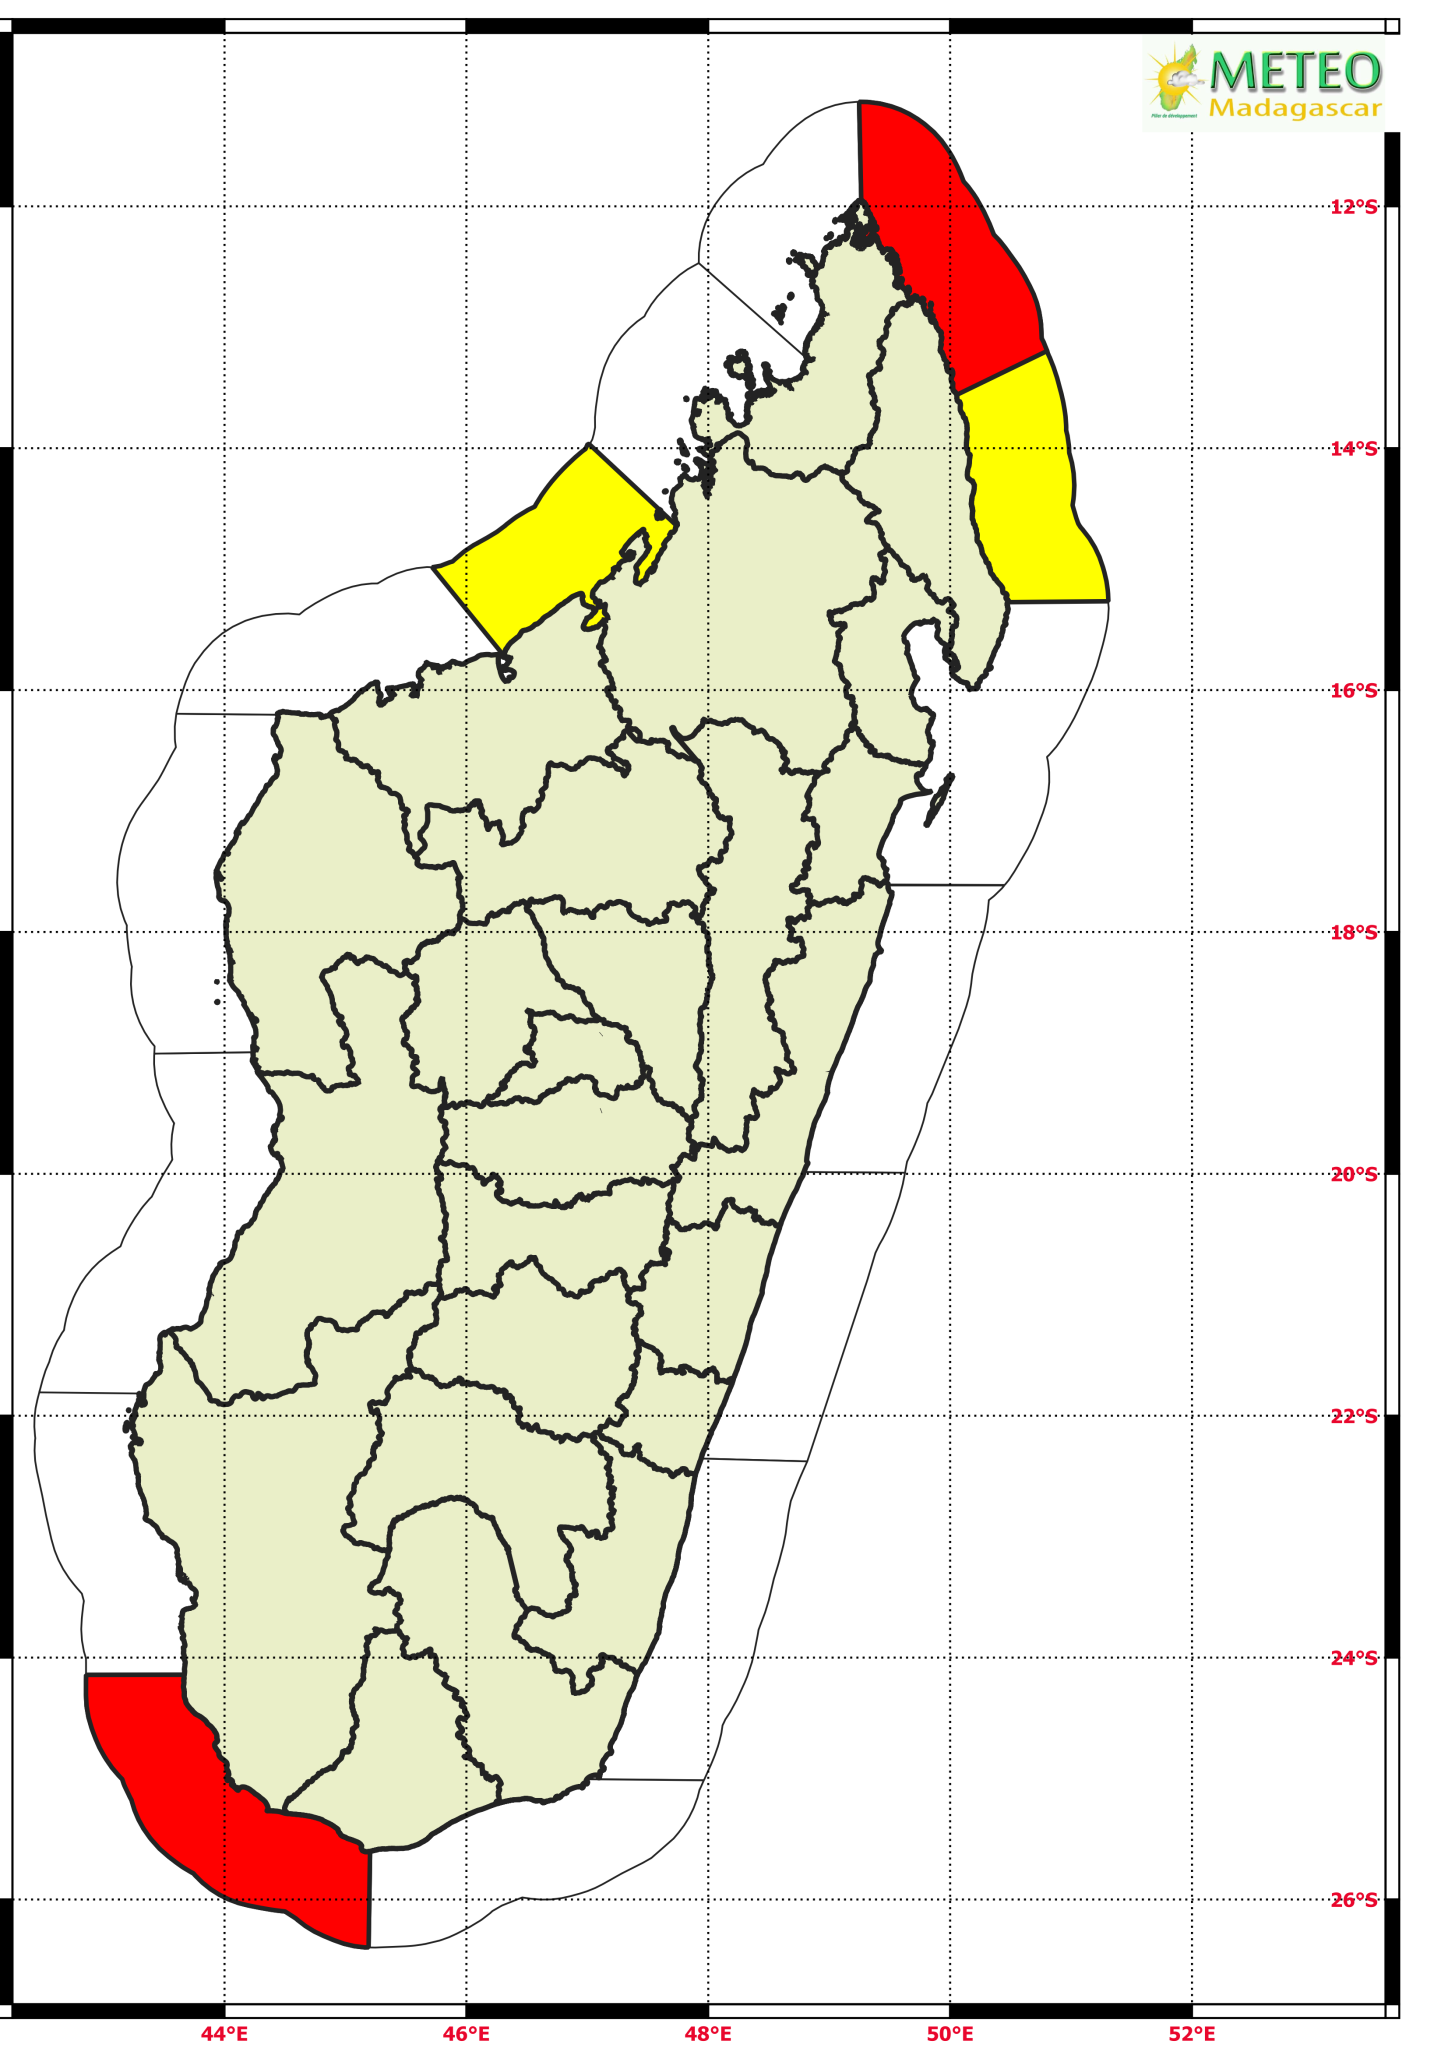
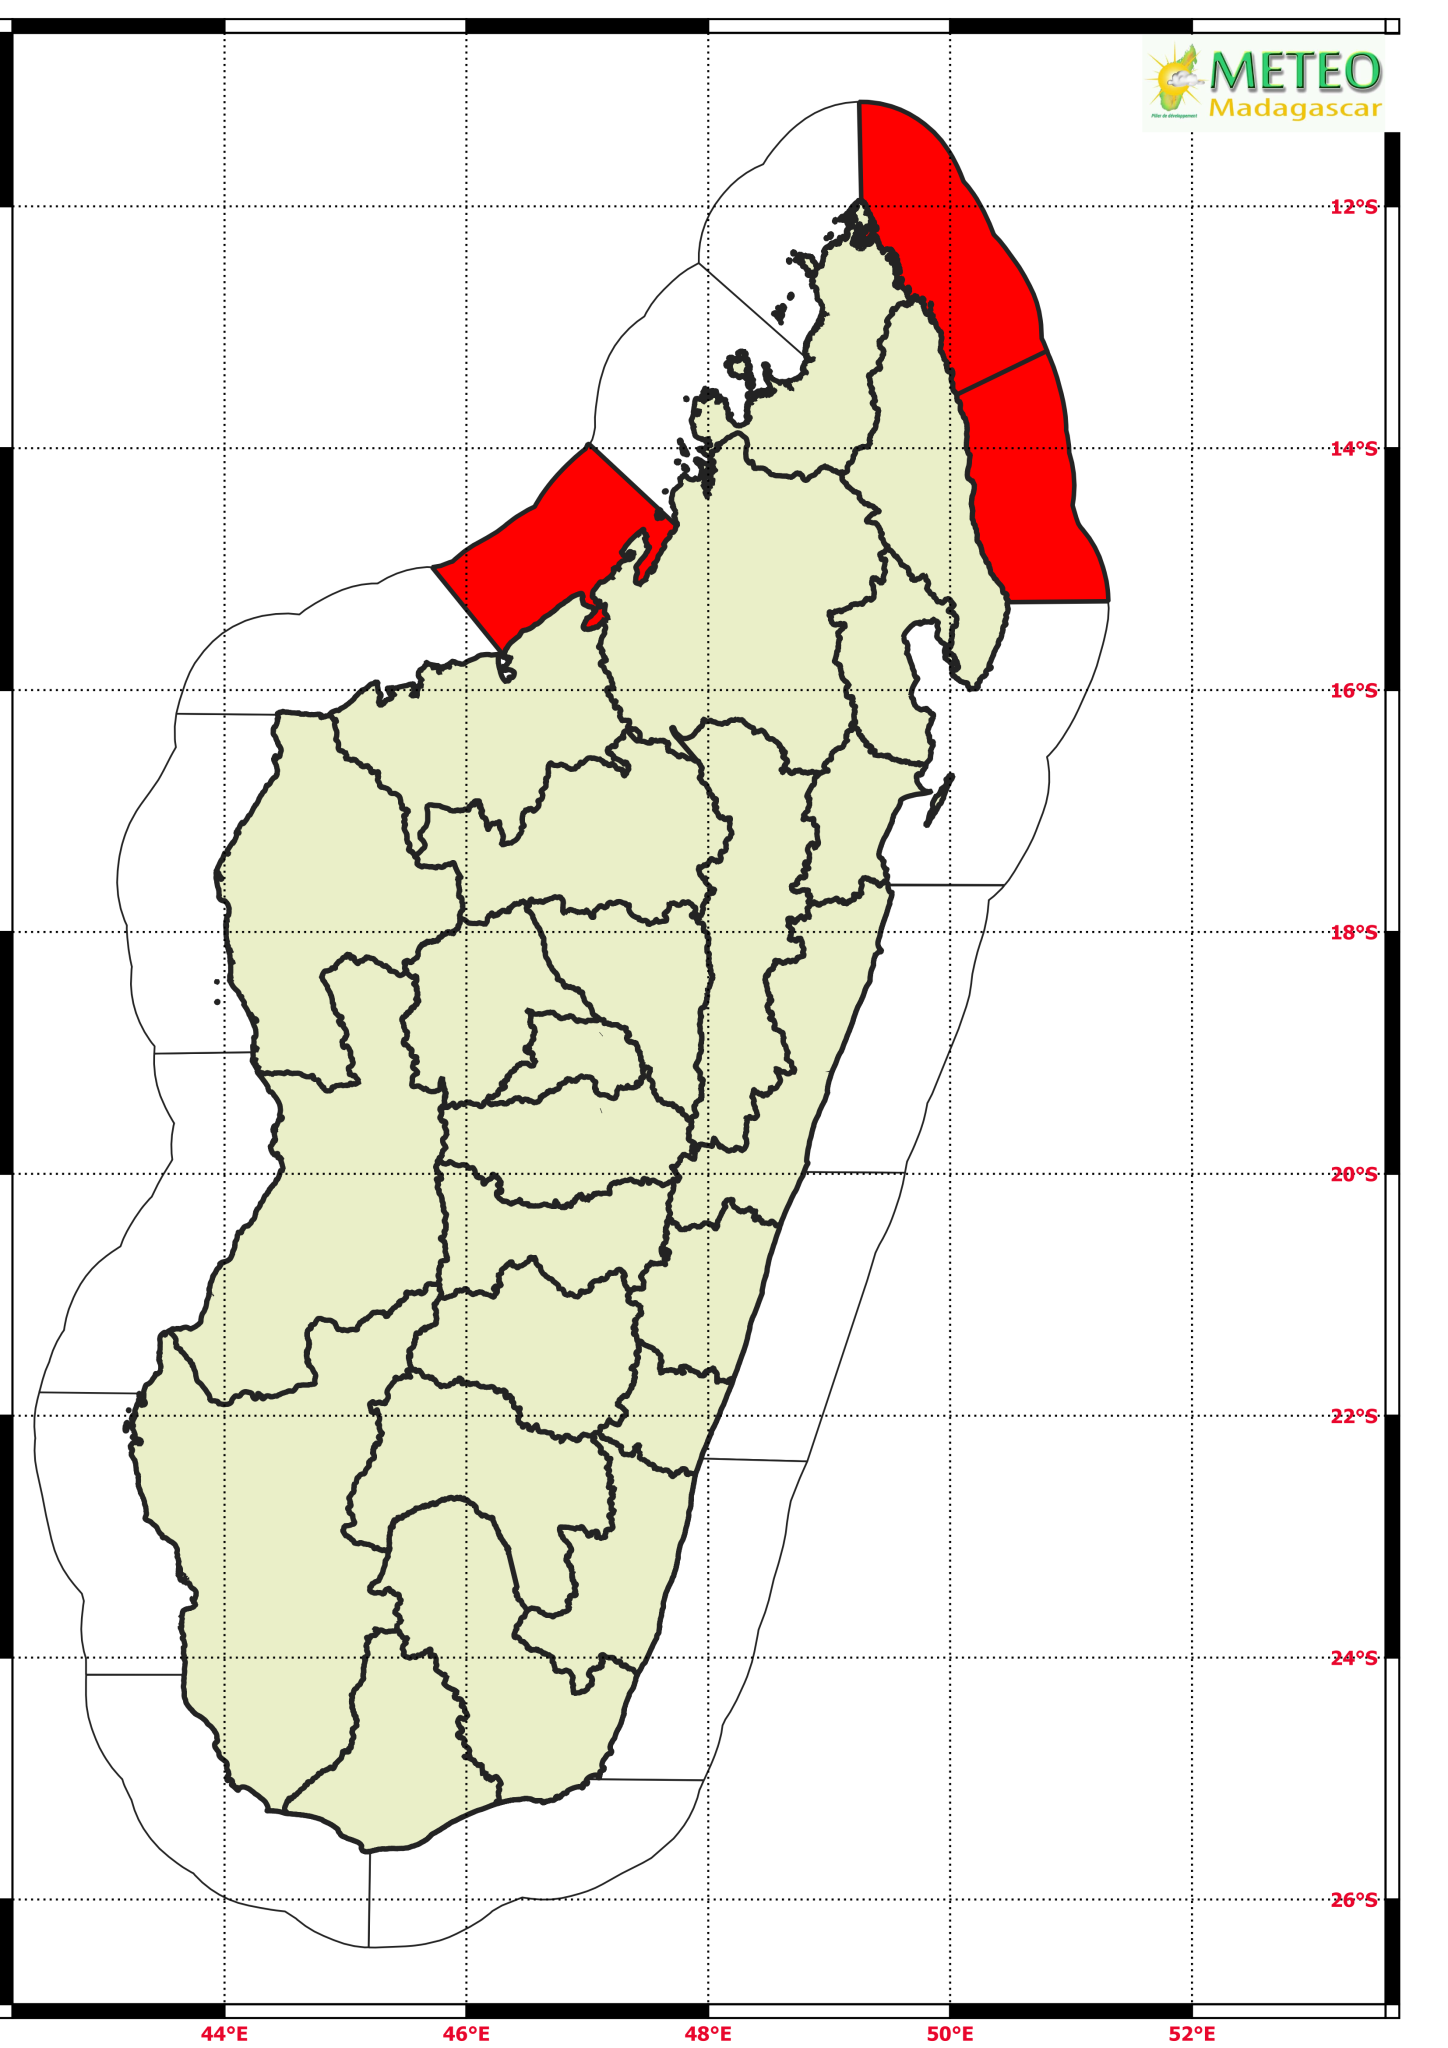
Update vigi on 30/07/2025

Changed region(s): [[0.0622, 0.8125, 0.2797, 0.9688], [0.6526, 0.1562, 0.7769, 0.3125], [0.3108, 0.2188, 0.4662, 0.3125]]

diff --git a/assets/js/script.js b/assets/js/script.js
@@ -12,18 +12,17 @@ Restez informé en cas d’évolution de la situation.`,
     {
         message: `**fampitandremana momba ny hamafin'ny rivotra** 
 
-        **Novokarina ny Talata 29 Jolay 2025 Tamin’ny 1 ora 03 min hariva** 
+        **Novokarina ny Alarobia 30 Jolay 2025 Tamin’ny 11 ora 21 min** 
 
        ** Tranga ahiana sy toerana hisehoany:**
-Ho mafy amin’ny ankapobeny ny fitsokan’ny rivotra any amin’ny morontsirak’i SOFIA,  DIANA sy SAVA ary ny tapany Atsimon’ny morontsirak’i ATSIMO ANDREFANA.
+Ho mafy amin’ny ankapobeny ny fitsokan’ny rivotra any amin’ny morontsirak’i SOFIA, manomboka eo amin’ny tanjona Angotsy hatrany amin’ny tanjona Bobaomby.
 Tombanana hahatratra 55 Km/ora ny hamafin’ny rivotra.
 **Fotoana hisehoany:**  
-- Rahampitso Alarobia 30 Jolay 2025 kosa
-ho an’ny morontsirak’i SOFIA sy SAVA.
+Anio 30 Jolay hatramin’ny rahampitso 31 Jolay 2025
 
 **Ireo toerana voakasika:**
-**Fanairana miloko MAVO :** 
-Ny morontsirak’i SOFIA sy SAVA
+**Fanairana miloko MENA :** 
+Ny morontsirak’i SOFIA, manomboka eo amin’ny tanjona Angotsy hatrany amin’ny tanjona Bobaomby.
 
 
 **Ny mety ho fiantraikany:**
